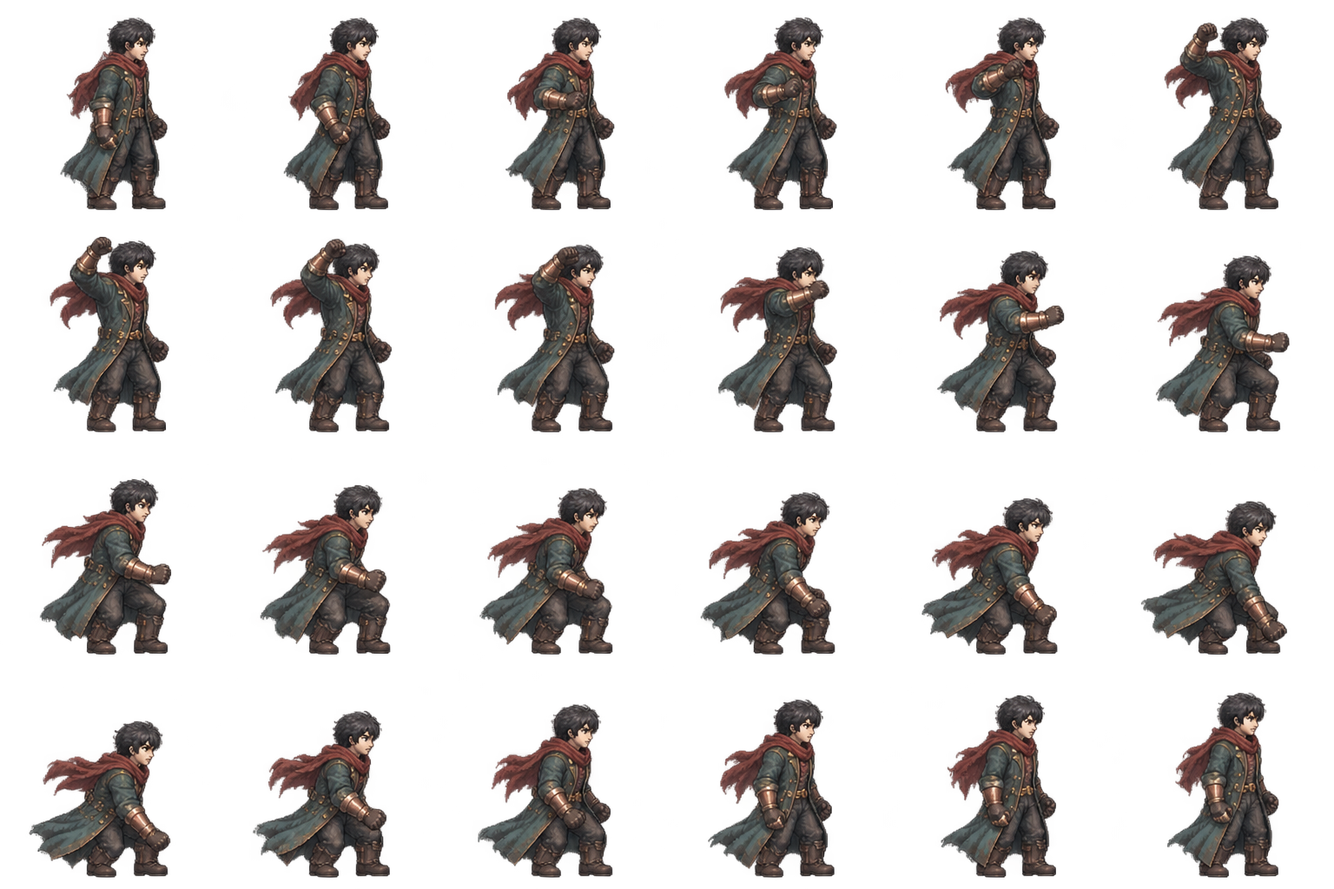
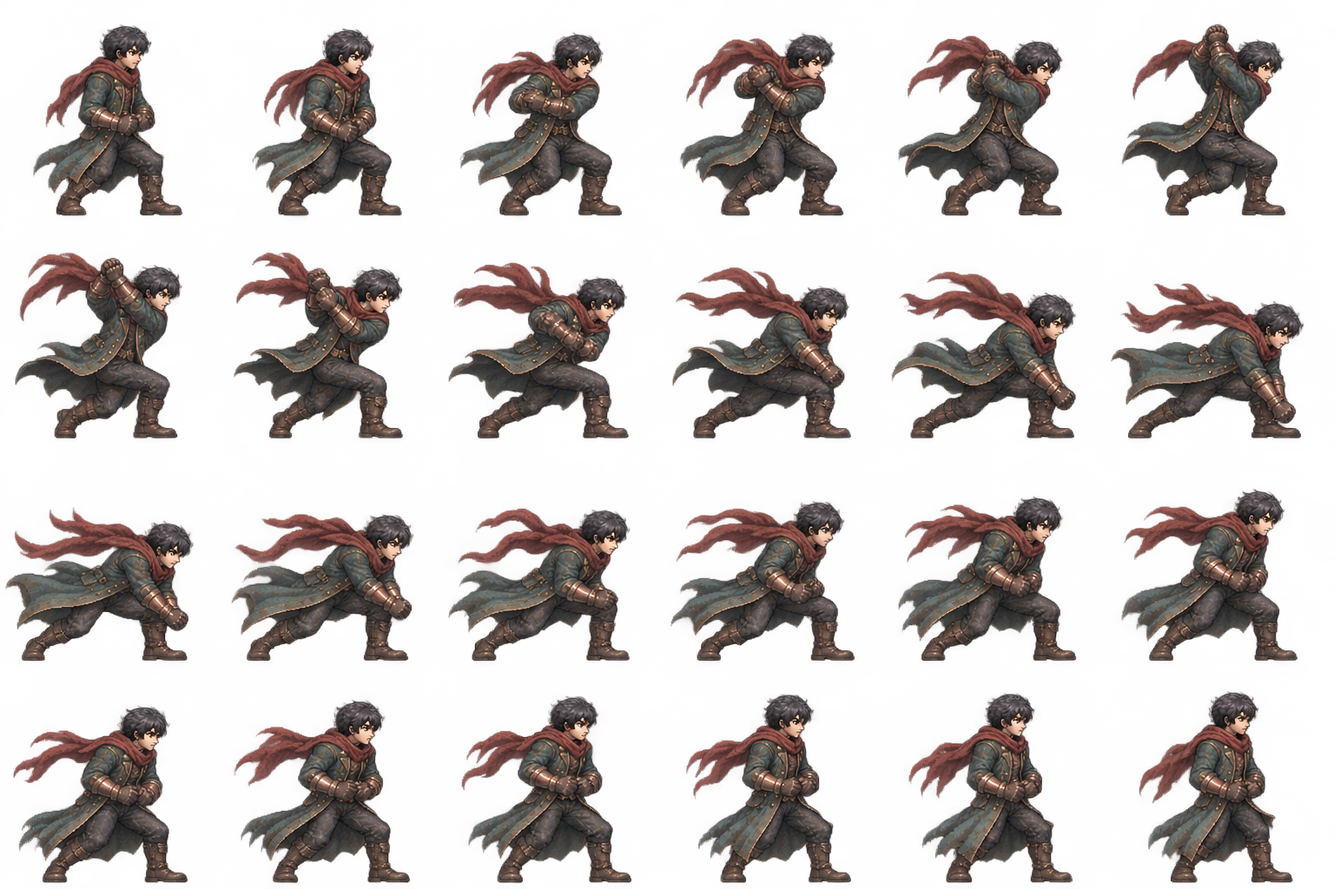
Give sword attacks full-body diagonal wind-up and forceful follow-through

diff --git a/seventh-bell/src/cuts.js b/seventh-bell/src/cuts.js
@@ -4,29 +4,43 @@ export const STEEL={length:30,guard:.185,grip:.095,axis:.5};
 export const CUT_FRAMES=24;
 export const CUT_CLIPS=['light1','light2','light3','heavy','air'];
 const HANDS={
- light1:[[61,80],[65,74],[76,60],[74,52],[72,42],[57,17],[57,16],[61,18],[71,20],[86,41],[92,53],[94,68],[93,76],[87,80],[85,85],[85,97],[89,101],[95,110],[89,111],[87,95],[75,86],[62,88],[63,88],[62,89]],
- light2:[[61,78],[65,72],[76,57],[76,49],[75,40],[57,16],[58,17],[62,18],[72,21],[87,42],[95,57],[98,73],[96,83],[89,84],[86,84],[88,97],[91,104],[96,108],[93,106],[87,95],[75,84],[64,86],[64,86],[64,86]],
- light3:[[61,78],[74,75],[77,55],[83,45],[81,36],[58,10],[58,13],[64,14],[72,17],[87,37],[94,48],[99,62],[96,69],[90,78],[88,83],[90,94],[90,102],[98,109],[94,102],[86,86],[76,80],[70,80],[70,79],[70,78]],
- heavy:[[64,75],[74,67],[79,51],[82,43],[85,33],[76,13],[77,9],[81,15],[90,43],[102,49],[103,66],[100,83],[97,99],[90,105],[93,112],[95,115],[98,109],[99,106],[96,104],[87,95],[78,80],[73,75],[62,85],[64,85]],
- air:[[70,68],[64,52],[74,45],[79,42],[75,33],[61,10],[67,11],[67,18],[82,44],[94,54],[95,78],[94,93],[86,94],[87,96],[90,106],[92,108],[88,99],[85,85],[82,78],[82,75],[71,61],[72,61],[73,66],[74,69]]
+ light1:[[83,70],[77,76],[63,55],[53,43],[62,33],[66,24],[65,34],[59,46],[82,76],[94,91],[101,101],[100,112],[100,102],[100,95],[91,88],[87,77],[86,75],[86,78],[78,77],[75,76],[75,77],[77,76],[73,77],[72,77]],
+ light2:[[70,62],[69,71],[63,76],[52,79],[50,85],[53,81],[50,69],[59,64],[71,62],[88,54],[98,36],[105,22],[107,11],[92,15],[101,24],[105,39],[104,53],[101,70],[94,78],[86,77],[83,74],[87,70],[86,67],[86,66]],
+ light3:[[83,73],[78,74],[59,69],[53,52],[58,26],[68,22],[70,19],[76,32],[75,48],[90,79],[108,95],[108,101],[103,110],[100,109],[92,104],[88,95],[85,88],[85,85],[85,83],[81,76],[79,77],[78,75],[79,77],[75,79]],
+ heavy:[[92,79],[90,83],[97,58],[104,41],[90,19],[66,13],[59,10],[69,13],[83,23],[111,65],[116,90],[102,107],[94,109],[80,107],[75,106],[74,99],[80,88],[80,81],[83,77],[84,74],[82,69],[79,67],[81,69],[81,71]],
+ air:[[66,89],[61,67],[69,44],[64,28],[65,13],[70,14],[75,18],[62,34],[71,70],[79,83],[99,101],[116,108],[115,101],[111,94],[106,87],[89,75],[83,70],[75,65],[76,77],[78,74],[73,74],[74,75],[74,73],[78,76]]
 };
 const FEET={
- light1:[121,121,121,121,121,121,121,121,121,121,121,121,121,121,121,121,121,121,121.5,121.5,121.5,121.5,121.5,121.5],
- light2:[121,121,121,120.5,120.5,120.5,120.5,120.5,120.5,120.5,120.5,120.5,120.5,120.5,121,121,121,121,121,121,121,121,121,121],
- light3:[121.5,121.5,121.5,121.5,121.5,121.5,121,121,121,121,121,121,121,121.5,121.5,121.5,121.5,121.5,122,122,122,122,122,122],
- heavy:[122.5,122.5,122.5,122.5,122.5,122.5,122,122,122,122,122,122,122,122,122,122,122,122,122,122,122.5,122.5,122.5,123]
+ light1:[124.0,124.0,124.0,124.0,124.0,124.0,124.5,124.5,124.5,124.5,124.5,124.5,124.5,124.5,124.5,124.5,124.5,124.5,124.0,124.5,124.5,124.0,124.0,124.0],
+ light2:[122.5,123.0,123.0,123.0,123.0,123.0,123.0,123.0,123.0,123.0,123.0,123.0,123.5,123.5,123.5,123.5,123.5,123.5,122.5,122.5,122.5,122.5,122.5,122.5],
+ light3:[124.0,124.0,124.0,124.0,124.0,124.0,123.5,123.5,124.0,123.5,123.5,123.5,123.5,123.5,123.5,123.5,123.5,123.5,123.5,123.5,123.5,123.5,123.5,123.5],
+ heavy:[122.5,122.5,122.5,122.5,122.5,122.5,122.0,122.5,122.5,122.5,122.5,122.5,122.5,122.5,122.5,122.5,122.5,122.5,123.0,123.0,123.0,123.0,123.0,123.0],
+ air:[121,121,121,124.0,124.5,125.0,124.5,123.0,124.5,124.5,125.5,126.0,126.0,126.0,122.0,121,121,121,121,121,121,121,121,121]
 };
-const ANGLES=[35,20,-10,-35,-65,-100,-105,-90,-65,-35,-15,0,12,25,38,50,60,70,68,60,48,40,37,35];
+const ROOTS={
+ light1:[68.8,67.8,66.8,66.5,65.0,65.5,66.8,65.2,62.2,60.8,59.5,59.2,60.0,60.8,61.2,62.8,63.0,63.8,66.2,68.8,69.0,68.5,69.2,69.0],
+ light2:[67.8,68.0,68.2,68.5,69.2,66.8,65.5,70.5,69.2,69.0,68.8,69.0,69.5,70.2,69.8,70.5,69.8,70.5,67.5,67.2,68.2,69.8,69.0,70.0],
+ light3:[68.5,68.2,69.0,69.2,69.8,70.0,69.5,67.8,64.8,64.2,62.2,61.2,59.8,58.0,58.2,59.2,62.0,64.5,64.8,66.5,65.5,69.8,71.5,71.5],
+ heavy:[73.8,74.2,73.2,72.5,72.5,73.0,73.2,71.5,67.2,62.0,61.0,60.0,60.5,60.8,61.2,60.8,61.5,63.0,64.0,67.8,69.5,71.2,73.0,72.8],
+ air:[75,75,75,75,75,75,75,75,75,75,75,75,75,75,75,75,75,75,75,75,75,75,75,75]
+};
+const ANGLES={
+ light1:[35,15,-20,-50,-95,-125,-125,-115,-100,-75,-45,-20,0,20,36,50,60,66,62,54,45,40,37,35],
+ light2:[35,45,65,85,110,125,68,58,45,30,12,-5,-22,-40,-58,-72,-85,-98,-80,-55,-25,0,20,35],
+ light3:[35,10,-30,-65,-100,-125,-135,-120,-100,-75,-45,-15,10,30,48,60,68,75,68,55,45,40,37,35],
+ heavy:[35,0,-40,-80,-100,-120,-130,-115,-95,-70,-45,-20,0,22,40,55,65,75,68,55,45,40,37,35],
+ air:[35,0,-35,-65,-100,-120,-125,-110,-90,-65,-40,-15,5,25,42,55,65,72,65,52,43,38,36,35]
+};
 export function cutStage(a,queued=false){const s=a.spec,t=a.t,end=queued&&s.chainAt?s.chainAt:s.duration;if(t<s.windup)return Math.min(5,Math.floor(t/s.windup*6));if(t<s.end)return 6+Math.min(11,Math.floor((t-s.windup)/(s.end-s.windup)*12));return 18+Math.min(5,Math.floor((t-s.end)/(end-s.end)*6));}
-export function cutAngle(a,queued=false){return ANGLES[cutStage(a,queued)];}
+export function cutAngle(a,queued=false){return ANGLES[a.air?'air':a.kind][cutStage(a,queued)];}
 export function cutPose(p,clock=0){const a=p.action;
  if(!a){if(p.grounded&&Math.abs(p.vx)<12&&!p.brake&&!p.land&&!p.hurt&&!p.dead){const col=Math.floor(clock*5)%8;return{sheet:'cut-body',row:3,col,size:74,root:[79.5,79.5,79.5,79.5,79.5,78.5,78.5,79][col],foot:[121,121,121,122,122,122,121,121][col],hand:[[68,80],[68,80],[69,80],[68,80],[68,80],[67,80],[67,80],[68,80]][col],angle:35,steel:true};}return null;}
  if(!['light1','light2','light3','heavy'].includes(a.kind))return null;
- const clip=a.air||!p.grounded?'air':a.kind,frame=cutStage(a,p.comboQueued),foot=clip==='air'?121:FEET[clip][frame],hand=HANDS[clip][frame];
- let angle=ANGLES[frame];
+ const clip=a.air||!p.grounded?'air':a.kind,frame=cutStage(a,p.comboQueued),foot=FEET[clip][frame],hand=HANDS[clip][frame];
+ let angle=ANGLES[clip][frame];
  // A low follow-through turns the wrist outward instead of burying the long
  // blade in the floor. Rendering and collision both use this registered angle.
- if(p.grounded&&angle>0){const reach=STEEL.length+(STEEL.guard-STEEL.grip)*STEEL.length/(1-STEEL.guard),clearance=(foot-hand[1])*74/128-1.5;angle=Math.min(angle,Math.asin(Math.max(0,Math.min(1,clearance/reach)))*180/Math.PI);}
- return{sheet:'cut-'+clip,clip,frame,col:frame%6,row:Math.floor(frame/6),size:74,root:75,foot,hand,angle,steel:true};
+ if(p.grounded&&angle>0){const reach=STEEL.length+(STEEL.guard-STEEL.grip)*STEEL.length/(1-STEEL.guard),clearance=(foot-hand[1])*74/128-1.5;const limit=Math.asin(Math.max(0,Math.min(1,clearance/reach)))*180/Math.PI;if(Math.sin(angle*Math.PI/180)>Math.sin(limit*Math.PI/180))angle=Math.cos(angle*Math.PI/180)<0?180-limit:limit;}
+ return{sheet:'cut-'+clip,clip,frame,col:frame%6,row:Math.floor(frame/6),size:74,root:ROOTS[clip][frame],foot,hand,angle,steel:true};
 }
 export function steelRig(p,pose){const s=pose.size/128,theta=pose.angle*Math.PI/180,c=Math.cos(theta)*p.dir,d=Math.sin(theta),width=STEEL.length/(1-STEEL.guard),offset=(STEEL.guard-STEEL.grip)*width,handX=p.x+(pose.hand[0]-pose.root)*s*p.dir,handY=p.y+(pose.hand[1]-pose.foot)*s;return{handX,handY,angle:pose.angle,width,ax:handX+c*offset,ay:handY+d*offset,bx:handX+c*(offset+STEEL.length),by:handY+d*(offset+STEEL.length)};}

diff --git a/seventh-bell/src/game.js b/seventh-bell/src/game.js
@@ -27,7 +27,7 @@ export class Game{
  start(){this.profile.started=true;this.paused=false;this.save();}
  tell(text){this.event('notice',{text});}sound(name){this.event('sound',{name});}
  press(kind){if(this.paused||this.p.dead||!this.profile.started)return false;const p=this.p;if(kind==='jump'){p.jumpBuffer=.13;return true;}if(kind==='attack'){if(p.action?.kind.startsWith('light')){if(p.action.t>.07)p.comboQueued=true;return true;}return this.startAttack('light1');}if(kind==='heavy'||kind==='skill')return this.startAttack(kind);if(kind==='dash')return this.dash();if(kind==='parry')return this.parry();if(kind==='heal')return this.heal();if(kind==='interact')return this.interact();if(kind==='echo')return this.reveal();return false;}
- startAttack(kind){const p=this.p,base=ATTACKS[kind];if(!base||p.action||p.hurt>0||p.stamina<actionCost(this.profile,base.stamina)||kind==='skill'&&this.skillCD>0)return false;const factor=kind==='heavy'&&has(this.profile,'cutweight')?.85:1,a={...base,duration:base.duration*factor,windup:base.windup*factor,end:base.end*factor};p.stamina-=actionCost(this.profile,a.stamina);p.action={kind,spec:a,t:0,hit:new Set(),serial:++this.attackSerial,air:!p.grounded,power:kind!=='skill'&&p.riposte>0?1.35:1};if(kind!=='skill')p.riposte=0;p.comboQueued=false;if(p.grounded)p.vx=0;if(kind==='skill')this.skillCD=has(this.profile,'echo')?6:8;this.sound(kind==='skill'?'echo':'swing');return true;}
+ startAttack(kind){const p=this.p,base=ATTACKS[kind];if(!base||p.action||p.hurt>0||p.stamina<actionCost(this.profile,base.stamina)||kind==='skill'&&this.skillCD>0)return false;const factor=kind==='heavy'&&has(this.profile,'cutweight')?.85:1,a={...base,duration:base.duration*factor,windup:base.windup*factor,end:base.end*factor};p.stamina-=actionCost(this.profile,a.stamina);p.action={kind,spec:a,t:0,hit:new Set(),serial:++this.attackSerial,air:!p.grounded,power:kind!=='skill'&&p.riposte>0?1.35:1};if(kind!=='skill')p.riposte=0;p.comboQueued=false;if(p.grounded)p.vx=0;if(kind==='skill')this.skillCD=has(this.profile,'echo')?6:8;if(kind==='skill')this.sound('echo');return true;}
  dash(){const p=this.p;if(p.action?.kind==='heal')return false;if(p.dashCD>0||p.stamina<(has(this.profile,'stride')?16:20)||p.hurt>0)return false;if(p.action&&p.action.spec&&p.action.t>p.action.spec.windup&&p.action.t<p.action.spec.end)return false;this.bladeEchoes=[];p.action={kind:'dash',t:0};p.stamina-=has(this.profile,'stride')?16:20;p.dashCD=.55;p.vy*=.3;this.sound('dash');if(this.inTutorial)tutorialSignal(this,'dash',trainerOf(this));return true;}
  parry(){const p=this.p;if(p.action?.kind==='heal')return false;if(p.stamina<12||p.hurt>0||p.action&&(!p.action.spec||p.action.t<p.action.spec.end))return false;this.bladeEchoes=[];p.action={kind:'parry',t:0};this.sound('parry');return true;}
  heal(){const p=this.p;if(this.paused||p.dead||this.profile.flasks<1||p.hp>=this.maxHp||p.hurt>0||p.action||!p.grounded||Math.abs(p.vx)>12)return false;this.profile.flasks--;p.action={kind:'heal',t:0,applied:false,spec:{duration:has(this.profile,'quickhands')?.65:POTION.duration,windup:has(this.profile,'quickhands')?.4:POTION.apply,end:has(this.profile,'quickhands')?.53:.65}};this.sound('heal');this.save();return true;}
@@ -56,12 +56,12 @@ export class Game{
  this.autosave+=dt;if(this.autosave>15){this.autosave=0;this.save();}}
  attackDamage(a){const p=this.profile;let n=a.spec.damage+p.upgrade*4+(p.level-1)*2+(p.flags.upper?7:0)+(a.kind==='heavy'&&p.flags.forge?12:0);if(a.kind==='skill'){if(has(p,'echocharge'))n*=1.2;}else{n+=(has(p,'edge')?3:0)+(has(p,'edge2')?4:0);if(a.kind==='light3'&&has(p,'finisher'))n*=1.2;if(a.air&&has(p,'aircut'))n*=1.2;}return Math.round(n*(a.power||1));}
  resolveAttack(a){const p=this.p,s=a.spec;if(a.kind==='skill'){if(!a.released){a.released=true;this.projectiles.push({kind:'echoBlade',friendly:true,x:p.x+p.dir*24,y:p.y-30,vx:p.dir*285,vy:0,damage:this.attackDamage(a),owner:'player',life:.6,range:145,distance:0,hit:new Set(),pierce:has(this.profile,'echo2')?3:2});}return;}
- captureAfterimage(this,a);const blade=worldBlade(p),paths=sweptBlades(a.previousBlade,blade).filter(b=>clearLine(this,p.x,p.y-30,b.ax,b.ay));a.previousBlade=blade;
+ if(!a.swung){a.swung=true;this.sound(['heavy','light3'].includes(a.kind)?'heavy':'swing');}captureAfterimage(this,a);const blade=worldBlade(p),paths=sweptBlades(a.previousBlade,blade).filter(b=>clearLine(this,p.x,p.y-30,b.ax,b.ay));a.previousBlade=blade;
  const touches=r=>paths.some(b=>bladeTouches(b,r)&&clearLine(this,b.ax,b.ay,Math.max(r.x,Math.min(r.x+r.w,b.bx)),Math.max(r.y,Math.min(r.y+r.h,b.by))));
  for(const e of [...this.world.enemies,this.world.boss]){if(e.dead||e.boss&&(!this.bossActive||e!==this.world.boss)||a.hit.has(e.id)||!touches(body(e)))continue;a.hit.add(e.id);this.damageEnemy(e,this.attackDamage(a),p.dir,s.push,a.kind);this.lastHits.push({enemy:e.id,kind:a.kind,t:a.t,windup:s.windup,end:s.end,blade:{...blade}});this.lastHits=this.lastHits.slice(-30);}
  const seal=this.world.objects.find(o=>o.id==='forgecache');if(a.kind==='heavy'&&this.profile.flags.forge&&!this.profile.flags.slag&&touches({x:seal.x-22,y:seal.y-35,w:44,h:35})){this.profile.flags.slag=true;this.tell('보물함을 묶은 쇠사슬이 끊어졌다.');this.fx(seal.x,seal.y-20,'hit',.8);this.sound('mechanism');this.save();}}
 
- damageEnemy(e,n,dir,push=80,kind=null){if(e.training){if(!this.inTutorial||e.dead)return;tutorialHit(this,e,kind,n);this.hitstop=.04;this.shake=1.2;this.fx(e.x,e.y-e.h*.5,'hit',.3);this.sound('hit');return;}if(e.dead||e.state==='weakened'&&e.grace>0)return;e.hp=Math.max(0,e.hp-n);e.hit=.13;e.vx=dir*push;e.stagger=e.boss?Math.max(e.stagger,.09):.34;if(!e.boss){e.state='recover';e.t=0;}this.hitstop=e.boss?.055:.045;this.shake=e.boss?2:1.2;this.fx(e.x,e.y-e.h*.5,'hit',.3);this.sound('hit');this.effects.push({kind:'number',x:e.x,y:e.y-e.h-6,text:String(n),life:.65,max:.65});
+ damageEnemy(e,n,dir,push=80,kind=null){const weight=kind==='heavy'?1.4:kind==='light3'?1.2:1;if(e.training){if(!this.inTutorial||e.dead)return;tutorialHit(this,e,kind,n);this.hitstop=.04*weight;this.shake=1.2*weight;this.fx(e.x,e.y-e.h*.5,'hit',.3);this.sound('hit');return;}if(e.dead||e.state==='weakened'&&e.grace>0)return;e.hp=Math.max(0,e.hp-n);e.hit=.13;e.vx=dir*push;e.stagger=e.boss?Math.max(e.stagger,.09):.34;if(!e.boss){e.state='recover';e.t=0;}this.hitstop=(e.boss?.055:.045)*weight;this.shake=(e.boss?2:1.2)*weight;this.fx(e.x,e.y-e.h*.5,'hit',.3);this.sound('hit');this.effects.push({kind:'number',x:e.x,y:e.y-e.h-6,text:String(n),life:.65,max:.65});
  if(e.boss&&e.phase===2&&e.hp<=e.maxHp*.115&&this.profile.flags[BOSS_DEFS[e.id].clue]&&!e.offered){e.offered=true;e.hp=Math.max(1,e.hp);e.state='weakened';e.stagger=0;e.t=0;e.grace=1.3;this.p.comboQueued=false;this.projectiles=[];this.tell('종의 박자가 기록과 같다. 가까이서 W를 누르면 울림을 맞출 수 있다.');return;}
  if(e.hp<=0){e.dead=true;e.deathT=0;e.vx=0;if(e.boss){this.clearBoss('slain');return;}if(!this.profile.killed.includes(e.id))this.profile.killed.push(e.id);this.profile.marks+=(e.type==='watchman'?10:12)+(e.rank||0)*4;this.gainXp((e.type==='watchman'?18:22)+(e.rank||0)*5);this.sound('coin');}}
 

diff --git a/seventh-bell/src/blade.js b/seventh-bell/src/blade.js
@@ -16,4 +16,7 @@ export function worldBlade(p,pose=registeredPose(p)){if(pose?.steel){const {ax,a
 // Liang–Barsky segment/box intersection, with a 2px steel edge allowance.
 export function bladeTouches(b,r,radius=2){if(!b)return false;let lo=0,hi=1;const dx=b.bx-b.ax,dy=b.by-b.ay;for(const [p,q]of[[-dx,b.ax-r.x+radius],[dx,r.x+r.w+radius-b.ax],[-dy,b.ay-r.y+radius],[dy,r.y+r.h+radius-b.ay]]){if(Math.abs(p)<1e-9){if(q<0)return false;continue;}const t=q/p;if(p<0)lo=Math.max(lo,t);else hi=Math.min(hi,t);if(lo>hi)return false;}return true;}
 export function sweptBlades(previous,current){if(!current)return[];if(!previous)return[current];const n=Math.max(1,Math.ceil(Math.max(Math.hypot(current.ax-previous.ax,current.ay-previous.ay),Math.hypot(current.bx-previous.bx,current.by-previous.by))/3));return Array.from({length:n+1},(_,i)=>Object.fromEntries(['ax','ay','bx','by'].map(k=>[k,previous[k]+(current[k]-previous[k])*i/n])));}
-export const rootStep=(a,t)=>!a||a.kind==='skill'||a.kind==='heal'?0:({light1:5,light2:7,light3:11,heavy:9}[a.kind]||0)*Math.max(0,Math.min(1,(t-a.spec.windup)/(a.spec.end-a.spec.windup)));
+// Load the rear leg, then drive the hips forward through the active cut.
+// These are actual collision-tested steps; the sprite is never teleported.
+export const ROOT_DRIVE={light1:{back:2,forward:9},light2:{back:2,forward:11},light3:{back:3,forward:16},heavy:{back:4,forward:14}};
+export function rootStep(a,t){const r=a&&ROOT_DRIVE[a.kind];if(!r||t<=0)return 0;const s=a.spec;if(t<s.windup){const f=Math.max(0,t/s.windup);return-r.back*f*f;}const f=Math.max(0,Math.min(1,(t-s.windup)/(s.end-s.windup)));return-r.back+(r.forward+r.back)*f*f*(3-2*f);}

diff --git a/seventh-bell/src/tutorial.js b/seventh-bell/src/tutorial.js
@@ -29,7 +29,7 @@ export function updateTutorial(g,dt){const p=g.p,t=g.profile.tutorial,e=trainerO
  e.hit=Math.max(0,e.hit-dt);if(e.dead){e.deathT+=dt;return;}e.stagger=Math.max(0,e.stagger-dt);e.cooldown-=dt;e.t+=dt;
  if(p.x<770||t.step<2){e.vx=0;return;}if(e.stagger>.21){e.vx=0;return;}
  const d=p.x-e.x,dist=Math.abs(d),a=TRAINING_PATTERNS[e.pattern];
- if(e.state==='idle'){e.dir=Math.sign(d)||e.dir;e.vx=dist>53?e.dir*44:0;if(t.step>=3&&dist<100&&e.cooldown<=0){e.pattern=t.step===3||t.step===4?'cut':e.attackIndex++%2?'overhead':'cut';e.state='windup';e.t=0;e.vx=0;e.serial++;e.didHit=false;e.damagedPlayer=false;e.dashAttempt=null;e.previousBlade=null;g.sound('parry');}}
+ if(e.state==='idle'){e.dir=Math.sign(d)||e.dir;e.vx=t.step>=3&&dist<32?-e.dir*44:dist>53?e.dir*44:0;if(t.step>=3&&dist>=32&&dist<100&&e.cooldown<=0){e.pattern=t.step===3||t.step===4?'cut':e.attackIndex++%2?'overhead':'cut';e.state='windup';e.t=0;e.vx=0;e.serial++;e.didHit=false;e.damagedPlayer=false;e.dashAttempt=null;e.previousBlade=null;g.sound('parry');}}
  else if(e.state==='windup'){e.vx=0;if(e.t>=a.windup){e.state='attack';e.t=0;g.sound('swing');}}
  else if(e.state==='attack'){e.vx=0;const b=trainerBlade(e),paths=sweptBlades(e.previousBlade,b);e.previousBlade=b;if(!e.didHit&&paths.some(v=>bladeTouches(v,body(p),2))&&clearLine(g,e.x,e.y-30,p.x,p.y-25)){e.didHit=true;e.damagedPlayer=g.hurt(a.damage,e);}if(e.t>=a.active){if(t.step===3&&e.dashAttempt===e.serial&&!e.damagedPlayer)nextLesson(g);e.state='recover';e.t=0;}}
  else if(e.state==='recover'){e.vx=0;if(e.t>=(a?.recover||1.3)){e.state='idle';e.t=0;e.cooldown=.55;}}

diff --git a/seventh-bell/README.md b/seventh-bell/README.md
@@ -1,6 +1,6 @@
 # 잔향: 일곱 번째 종
 
-**ECHOES OF THE SEVENTH BELL · 0.8.0**
+**ECHOES OF THE SEVENTH BELL · 0.8.1**
 
 이름 없는 종 수리공이 누나를 찾아 왕국으로 돌아온다. 성벽·대성당·제철도시·서고·왕궁이 이어지는 **제1~5장**과 마지막 선택을 플레이할 수 있다. VOIDRUN·ELDERMERE와 코드, 에셋, 저장이 분리된 Canvas 2D/Web Audio 게임이다. 외부 런타임이나 CDN은 없다.
 
@@ -54,13 +54,13 @@ npm run build
 
 ## 모션과 검의 판정
 
-기본 3연타·강공격·공중 베기는 **각각 24장의 서로 다른 몸 스프라이트**를 쓰며, 전용 6×4 시트 다섯 장에 총 120개 동작을 넣었다. 잔상 조각이나 같은 그림에 붙인 프레임 번호가 아니다. 어깨·팔꿈치·몸의 기울기·다리·옷자락이 함께 바뀐다. 준비 6장→타격 12장→복귀 6장의 순서다. 초당 60회 게임 업데이트에서 다섯 종류 모두 24단계가 실제로 재생되는지 검사한다. 이어치기를 예약해도 복귀 그림이 빠지지 않도록 재생 구간을 맞췄다. 기본 베기는 약 0.5초이며 크게 감아 돌리는 동작은 없다.
+기본 3연타·강공격·공중 베기는 **각각 24장의 서로 다른 몸 스프라이트**를 쓰며, 전용 6×4 시트 다섯 장에 총 120개 동작을 넣었다. 잔상 조각이나 같은 그림에 붙인 프레임 번호가 아니다. 어깨와 허리를 크게 틀고, 뒷다리로 버티며 앞무릎에 체중을 싣는다. 첫 타는 사선 내려베기, 둘째는 몸을 펴며 올려베기, 셋째는 양손으로 깊게 찍는 마무리다. 강공격은 뒤로 힘을 모았다가 상체를 크게 숙이고, 공중 베기는 상체 회전과 반대 방향으로 다리를 뻗는다. 옷자락과 목도리도 뒤따라 움직인다. 준비 6장→타격 12장→복귀 6장의 순서다. 초당 60회 게임 업데이트에서 다섯 종류 모두 24단계가 실제로 재생되는지 검사한다. 이어치기를 예약해도 복귀 그림이 빠지지 않도록 재생 구간을 맞췄다. 기본 베기는 약 0.5초다. 올려베기의 준비와 복귀는 서 있는 자세로 연결해 연속 공격에서 몸 높이가 갑자기 바뀌지 않게 했다.
 
 각 그림의 주먹과 발을 따로 등록하고, 같은 등록점에 일정한 길이 30의 검을 붙인다. 손잡이부터 칼끝까지의 좌표와 좌우 반전을 **그림과 공격 판정이 함께 사용**한다. 프레임 사이의 칼날 경로도 검사하며 한 동작에서 한 적은 한 번만 맞는다. 준비·복귀와 잔상에는 공격 판정이 없다. 바닥에 선 채 손이 낮아지는 마무리 자세에서는 검끝이 지면을 뚫지 않도록 같은 등록 각도를 조정한다. 판정에는 2픽셀의 칼날 두께 여유가 있다. 제동·약병·공명은 기존 전용 동작을 사용한다.
 
 칼날이 실제로 지나간 위치를 짧은 빛의 띠와 옅은 몸체 잔상으로 남긴다. 검 위치 사이를 하나의 큰 삼각형으로 채우지 않고, 회전 각도를 최대 2.5도 간격으로 나눠 둥근 가장자리로 연결한다. 이 곡선 보정은 잔상의 표시용이며 타격 범위를 늘리지 않는다. 잔상은 0.14초 안에 사라지고 추가 피해를 주지 않는다. 타격 정지 중에도 사라지며, 회피·막기·피격·사망·이동 시 이전 공격의 잔상을 비운다. 바닥에서 시작하거나 종길로 이동했을 때는 실제 발판을 검사해 첫 베기가 공중 모션으로 시작하지 않게 했다.
 
-지상 공격은 발을 디딘 채 지정된 만큼만 앞으로 움직인다. 방향 전환은 실제 속도와 제동 자세를 따라가고, 공중 공격은 다리를 접은 전용 그림을 쓴다. Q는 사거리 145의 실제 움직이는 공명 검을 내보내며 벽에서 사라진다. 검이 없는 넓은 공간을 즉시 타격하지 않는다. 점프 버퍼 0.13초·코요테 타임 0.11초, 가변 도약, 회피 무적, 정면 막기·패링은 유지했다.
+지상 공격은 준비할 때 2~4만큼 뒤로 체중을 싣고, 타격에 맞춰 9·11·16·14만큼 앞으로 디딘다. 움직임은 지형 충돌을 검사하므로 벽을 통과하지 않는다. 검을 베는 소리는 활성 구간에서 한 번 재생하며, 강공격과 마무리에는 더 무거운 소리와 타격 정지·화면 흔들림을 적용한다. 연습기사는 플레이어가 너무 붙으면 한 걸음 물러나 제대로 검이 닿는 거리에서 공격한다. 방향 전환은 실제 속도와 제동 자세를 따라가고, 공중 공격은 다리를 접은 전용 그림을 쓴다. Q는 사거리 145의 실제 움직이는 공명 검을 내보내며 벽에서 사라진다. 검이 없는 넓은 공간을 즉시 타격하지 않는다. 점프 버퍼 0.13초·코요테 타임 0.11초, 가변 도약, 회피 무적, 정면 막기·패링은 유지했다.
 
 ## 기술 나무와 정비
 
@@ -106,4 +106,4 @@ npm run build
 
 생성한 원본 PNG 29장을 사용한다. 전용 베기 시트 다섯 장의 실제 몸 동작 120셀, 수리공 기본 64셀과 이전 동작 시트, 대기용 몸체·별도 검 이미지, 일반 적 48프레임, 다섯 보스 각 24프레임과 점검기사 24프레임, 다섯 지역의 배경과 지형·시설·함정 아틀라스다. 출처는 [assets/LICENSE.md](assets/LICENSE.md)에 기록했다. 사진이나 기존 게임의 스프라이트를 가져오지 않았다. 그리드 추출·등록점·알파 정리·최근접 출력으로 실제 게임에 연결했다. 사람이 모든 픽셀과 중간 동작을 다듬은 상용 팩이라고 주장하지 않는다. 일부 관절 연결과 중간 프레임은 더 다듬을 여지가 있다. 소리는 오리지널 Web Audio 합성과 편곡이다.
 
-80개 단위 검사는 이동·전투·저장·경제의 회귀와 새 검 선분·기술 선행 조건·효과·함정·왕궁 장치·결말의 일회 저장을 다룬다. 초기화 이후 저장 차단과 실패 처리, 새 검의 고정 길이·24단계 선택·60Hz 재생·이어치기 자세·잔상 수명·피해 중복 방지·공중/지상 전환도 검사한다. `test:reset`은 실제 새로고침과 페이지 종료 자동 저장, 삭제 취소·실패, 새 튜토리얼 저장, 다른 게임 기록 보존, 첫 플레이 후 모바일 초기화를 검사한다. `test:frames`는 잔상·파티클·피격 효과를 제외한 실제 렌더러에서 각 베기의 몸 이미지 24종·몸 실루엣 24종·완성 그림 24종을 확인하고, 60Hz 실행에서도 24단계를 확인한다. 단계별 그림은 `test-results/080-*-24-poses.png`에 남긴다. `test:motion`은 이 프레임 검사 후 실제 렌더러에서 세 번의 베기와 정확한 한 번씩의 피해, 둥근 잔상의 중간 가장자리, 좌클릭 방향·공중 베기·강공격·모바일 터치의 잔상을 캡처한다. `test:tutorial`은 새 게임의 기본 진입, 실제 착지와 키보드 이어치기, 입력으로 증명하는 회피·막기·강공격·공명, 중간 저장과 완료, 0.6 저장의 별도 연습과 복귀/새로고침, 터치 이동·점프·이어치기를 확인한다. 실제 Chromium 본편 경로 검사는 처음부터 획득한 저장으로 다섯 보스와 필수 장치·기록·왕궁의 마지막 선택까지 입력 드라이버로 진행한다. 해당 경로에서는 **일반 적과 함정만 제외해 지형·보스 전투를 분리**한다. 일반 적·투사체·함정·새 이미지 108셀·모바일 기술 학습과 화면은 별도 브라우저 검사로 확인한다. 함정 검사는 시작 위치를 정하는 독립 테스트 장면을 쓰며 점프 통과는 실제 이동 입력으로 검사한다. 전체 적과 함정이 있는 상태의 장시간 수동 완주, 모든 실기기 성능, 숨은 결말의 처음부터 끝까지의 수동 완주를 검증했다고 주장하지 않는다. 스크린샷은 무시되는 `test-results/`에 남긴다.
+84개 단위 검사는 이동·전투·저장·경제의 회귀와 새 검 선분·기술 선행 조건·효과·함정·왕궁 장치·결말의 일회 저장을 다룬다. 초기화 이후 저장 차단과 실패 처리, 새 검의 고정 길이·서로 다른 베기 방향·뒤로 힘을 모으는 이동과 벽 충돌·타격음 시점·24단계 선택·60Hz 재생·이어치기 자세·잔상 수명·피해 중복 방지·공중/지상 전환도 검사한다. `test:reset`은 실제 새로고침과 페이지 종료 자동 저장, 삭제 취소·실패, 새 튜토리얼 저장, 다른 게임 기록 보존, 첫 플레이 후 모바일 초기화를 검사한다. `test:frames`는 잔상·파티클·피격 효과를 제외한 실제 렌더러에서 각 베기의 몸 이미지 24종·몸 실루엣 24종·완성 그림 24종을 확인하고, 60Hz 실행에서도 24단계를 확인한다. 단계별 그림은 `test-results/081-*-24-poses.png`에 남긴다. `test:motion`은 이 프레임 검사 후 실제 렌더러에서 세 번의 베기와 정확한 한 번씩의 피해, 둥근 잔상의 중간 가장자리, 좌클릭 방향·공중 베기·강공격·모바일 터치의 잔상을 캡처한다. `test:tutorial`은 새 게임의 기본 진입, 실제 착지와 키보드 이어치기, 입력으로 증명하는 회피·막기·강공격·공명, 중간 저장과 완료, 0.6 저장의 별도 연습과 복귀/새로고침, 터치 이동·점프·이어치기를 확인한다. 실제 Chromium 본편 경로 검사는 처음부터 획득한 저장으로 다섯 보스와 필수 장치·기록·왕궁의 마지막 선택까지 입력 드라이버로 진행한다. 해당 경로에서는 **일반 적과 함정만 제외해 지형·보스 전투를 분리**한다. 일반 적·투사체·함정·새 이미지 108셀·모바일 기술 학습과 화면은 별도 브라우저 검사로 확인한다. 함정 검사는 시작 위치를 정하는 독립 테스트 장면을 쓰며 점프 통과는 실제 이동 입력으로 검사한다. 전체 적과 함정이 있는 상태의 장시간 수동 완주, 모든 실기기 성능, 숨은 결말의 처음부터 끝까지의 수동 완주를 검증했다고 주장하지 않는다. 스크린샷은 무시되는 `test-results/`에 남긴다.

diff --git a/seventh-bell/assets/LICENSE.md b/seventh-bell/assets/LICENSE.md
@@ -25,15 +25,17 @@ All visual game assets in this directory were created specifically for **Echoes 
 | arkein.png | exec-1a4faf34-56e6-4d1e-a047-bfaa768c45a5.png | Dedicated crownless king, 6×4 atlas; image-tool cleanup of exec-39bda410-1bd4-434a-9797-3de407408c90.png |
 | palace.png | exec-793bca28-746f-45ea-9fa2-1d57e8d38b8e.png | Original ruined palace panorama |
 | traps.png | exec-b3cccea2-4e2b-441f-851e-b993285f5abc.png | Animated spikes, pendulum, crusher, crossbow and royal machinery, 4×3 atlas |
-| cut-light1.png | exec-7abbc604-d611-4e3e-a9a9-f71f3f46fee6.png | First light cut, 24 original body drawings in a 6×4 atlas |
-| cut-light2.png | exec-d8cda01b-019b-4abc-a36a-ca273349d93c.png | Second light cut, 24 original body drawings in a 6×4 atlas |
-| cut-light3.png | exec-620381c2-e824-41bf-a103-a6f434b0c8b8.png | Finishing cut, 24 original body drawings in a 6×4 atlas |
-| cut-heavy.png | exec-6d3001d1-816d-4769-9af7-318c2497fb3b.png | Heavy cleave, 24 original body drawings in a 6×4 atlas |
-| cut-air.png | exec-b1aefa3d-8eb7-4d58-8f5c-9db61f356455.png | Tucked airborne cut, 24 original body drawings in a 6×4 atlas |
+| cut-light1.png | exec-559cdfb9-64b6-4627-8748-a592f41cc16c.png | Whole-body diagonal forehand, 24 original body drawings in a 6×4 atlas |
+| cut-light2.png | exec-26bf4e1a-4030-4b34-ac6f-5695556ef35a.png | Reverse rising backhand with shoulder/hip rotation, 24 original body drawings in a 6×4 atlas |
+| cut-light3.png | exec-f848cce3-5ea3-4558-abab-ca81f35e2472.png | Deep two-handed finishing cleave, 24 original body drawings in a 6×4 atlas |
+| cut-heavy.png | exec-4fa429c7-a21e-405c-ae67-18c892a55ec9.png | Loaded two-handed heavy cleave, 24 original body drawings in a 6×4 atlas |
+| cut-air.png | exec-71b4d7ed-b174-4387-aad1-52e2f68bcbad.png | Airborne diagonal cut with torso twist and counterbalancing legs, 24 original body drawings in a 6×4 atlas |
 | cut-body.png | exec-572cf9d7-8978-4091-917e-1d40abae33a5.png | Original body-only downstroke, rising cut, finishing cut and ready stance, 8×4 atlas |
 | steel-blade.png | exec-37f8d1be-46d6-4471-827f-70085738cbc6.png | Original separate steel sword, attached to the registered fist with constant blade length |
 | tutor.png | exec-18fde72d-f3e6-4cb6-994b-2c9b4514d781.png | Original bell repair practice automaton, 6×4 animation atlas |
 | bell.svg | Authored in this task | Small original UI emblem |
+
+The rising-cut sheet was edited with the image tool to connect standing anticipation and recovery: initial output `exec-c1c21419-68ef-40ca-89b3-155ac1af000a.png`, recovery edit `exec-dedaf445-0318-40cb-a5c5-b17f3caaf55b.png`, and final output listed above. These are original replacements for the earlier arm-led sheets.
 
 Original generated outputs are retained in `/workspace/generated_images/`. Runtime code crops the explicit grid, rasterizes animation cells and disables interpolation. It does not use a photographic source or apply a photo-to-pixel effect. Alpha is thresholded for crisp sprite outlines. The source sheets are generated artwork, not represented as a manually hand-pixelled commercial pack.
 
